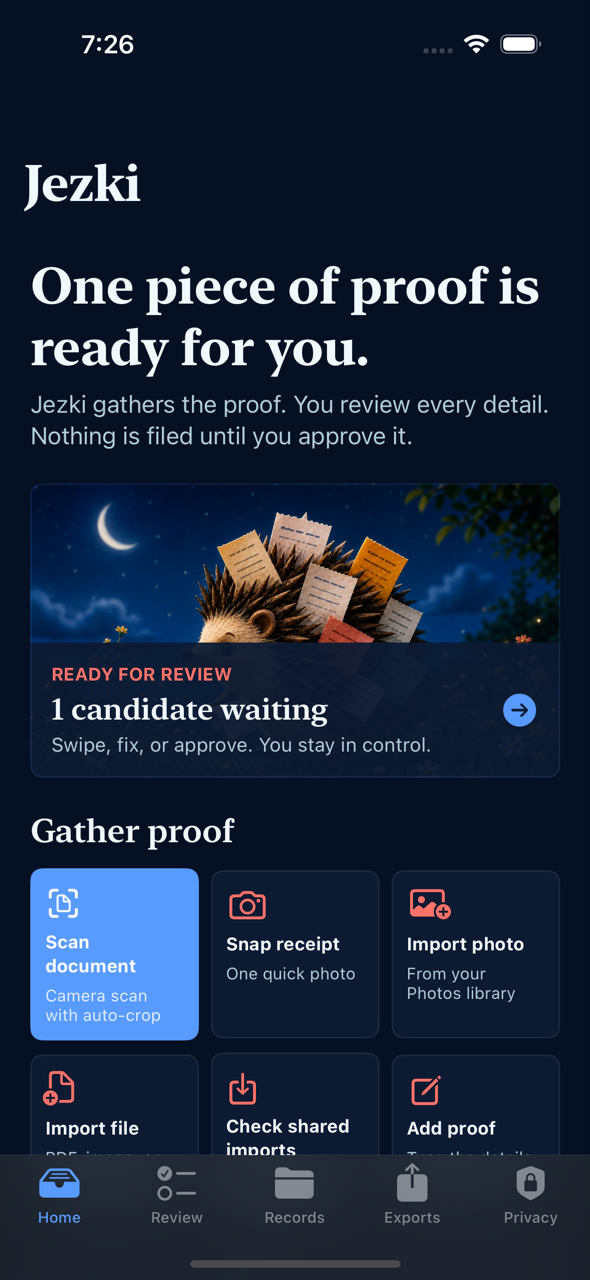
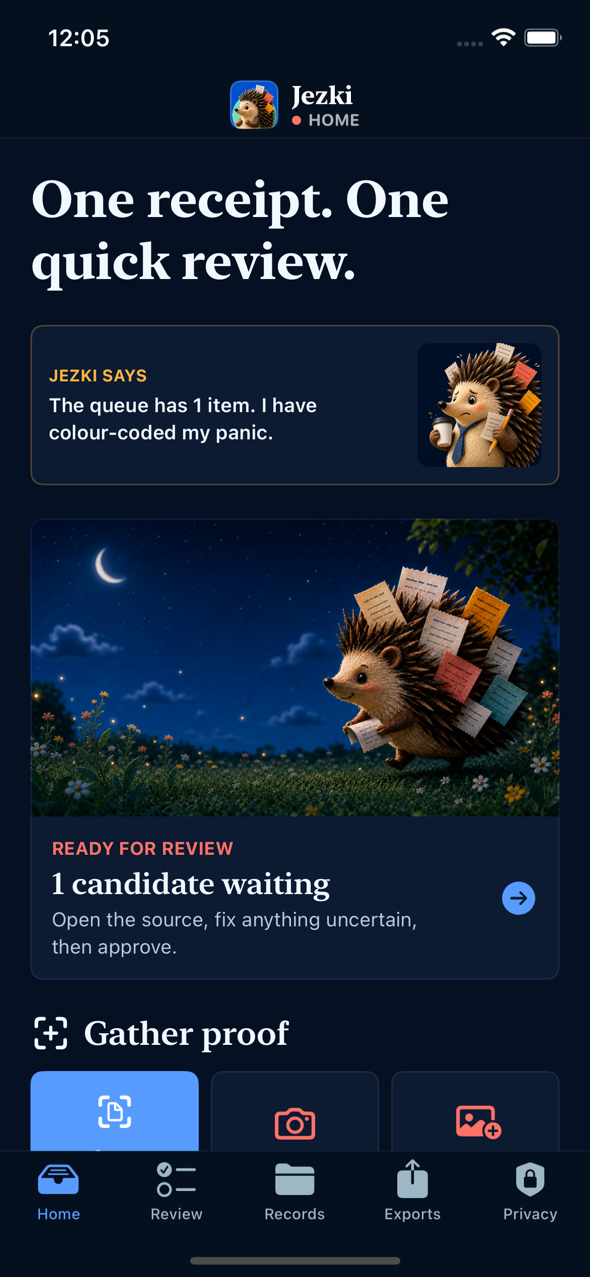
Fix Jezki mobile showcase sizing

diff --git a/assets/styles.css b/assets/styles.css
@@ -36,6 +36,7 @@ html {
 
 body {
   margin: 0;
+  overflow-x: hidden;
   background: var(--paper);
   color: var(--ink);
   font-family: var(--sans);
@@ -471,6 +472,7 @@ h3 {
 
 .screen-row img {
   width: 100%;
+  height: auto;
   border: 1px solid rgba(255, 255, 255, .26);
   border-radius: 8px;
   box-shadow: 0 24px 60px rgba(0, 0, 0, .3);
@@ -905,14 +907,14 @@ h3 {
   .hero {
     height: auto;
     min-height: 0;
-    padding-top: 245px;
+    padding-top: 220px;
     background: var(--paper);
     color: var(--ink);
   }
 
   .hero-media,
   .hero-media img {
-    height: 245px;
+    height: 220px;
   }
 
   .hero-media img {
@@ -1011,17 +1013,36 @@ h3 {
   }
 
   .screen-row {
-    display: flex;
-    align-items: flex-end;
+    display: grid;
+    grid-template-columns: none;
+    grid-auto-flow: column;
+    grid-auto-columns: minmax(260px, 86%);
+    align-items: start;
     gap: 12px;
     overflow-x: auto;
-    padding: 26px 4px 14px;
+    overscroll-behavior-inline: contain;
+    padding: 12px 2px 18px;
+    scroll-padding-inline: 2px;
     scroll-snap-type: x mandatory;
+    scrollbar-width: none;
+    -webkit-overflow-scrolling: touch;
+  }
+
+  .screen-row::-webkit-scrollbar {
+    display: none;
   }
 
   .screen-row figure {
-    flex: 0 0 72%;
-    scroll-snap-align: center;
+    width: 100%;
+    min-width: 0;
+    scroll-snap-align: start;
+  }
+
+  .screen-row img {
+    width: 100%;
+    aspect-ratio: 590 / 1277;
+    object-fit: cover;
+    object-position: top;
   }
 
   .screen-row figure:nth-child(2) {
@@ -1053,7 +1074,24 @@ h3 {
   }
 
   .page-hero {
-    min-height: 390px;
+    min-height: 0;
+    display: block;
+    padding-top: 220px;
+  }
+
+  .page-hero picture,
+  .page-hero::after {
+    inset: 0 0 auto;
+    height: 220px;
+  }
+
+  .page-hero picture img {
+    object-position: 68% 52%;
+  }
+
+  .page-hero .wrap {
+    padding-top: 28px;
+    padding-bottom: 34px;
   }
 
   .page-hero h1 {
@@ -1066,6 +1104,32 @@ h3 {
 }
 
 @media (max-width: 430px) {
+  .hero {
+    padding-top: 210px;
+  }
+
+  .hero-media,
+  .hero-media img {
+    height: 210px;
+  }
+
+  .page-hero {
+    padding-top: 210px;
+  }
+
+  .page-hero picture,
+  .page-hero::after {
+    height: 210px;
+  }
+
+  h1 {
+    font-size: 44px;
+  }
+
+  .hero-promise {
+    font-size: 28px;
+  }
+
   .hero-actions {
     display: grid;
   }
@@ -1085,6 +1149,10 @@ h3 {
   .showcase-points li {
     grid-template-columns: 1fr;
     gap: 2px;
+  }
+
+  .screen-row {
+    grid-auto-columns: minmax(248px, 88%);
   }
 }
 

diff --git a/index.html b/index.html
@@ -103,15 +103,15 @@
         </div>
         <div class="screen-row" aria-label="Jezki app screens">
           <figure>
-            <img src="assets/app-home-dark.png" alt="Jezki home screen with the review queue and six ways to gather proof" width="590" height="1280" loading="lazy">
+            <img src="assets/app-home-dark.png" alt="Jezki home screen with the review queue and six ways to gather proof" width="590" height="1277" loading="lazy">
             <figcaption>Gather</figcaption>
           </figure>
           <figure>
-            <img src="assets/app-review-light.png" alt="Jezki review screen showing an expense candidate ready to approve or fix" width="591" height="1280" loading="lazy">
+            <img src="assets/app-review-dark.png" alt="Jezki review screen showing an expense candidate ready to approve or fix" width="590" height="1277" loading="lazy">
             <figcaption>Review</figcaption>
           </figure>
           <figure>
-            <img src="assets/app-records-light.png" alt="Jezki records screen with search, category filters, and reviewed totals" width="591" height="1280" loading="lazy">
+            <img src="assets/app-records-dark.png" alt="Jezki records screen with search, category filters, and reviewed totals" width="590" height="1277" loading="lazy">
             <figcaption>Records</figcaption>
           </figure>
         </div>
